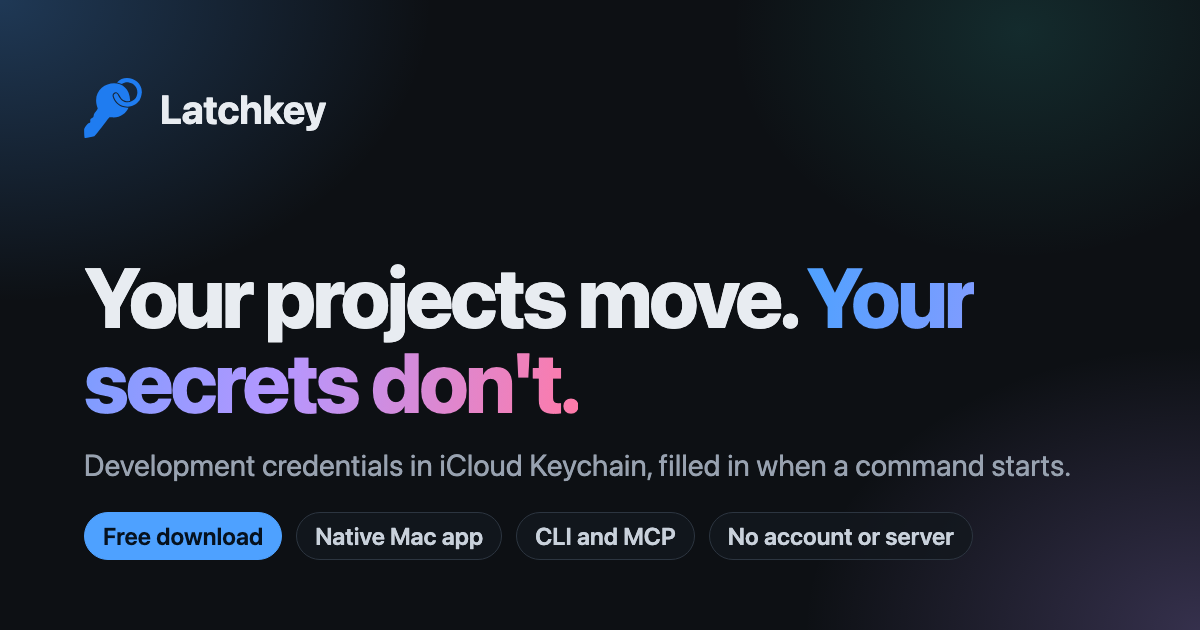
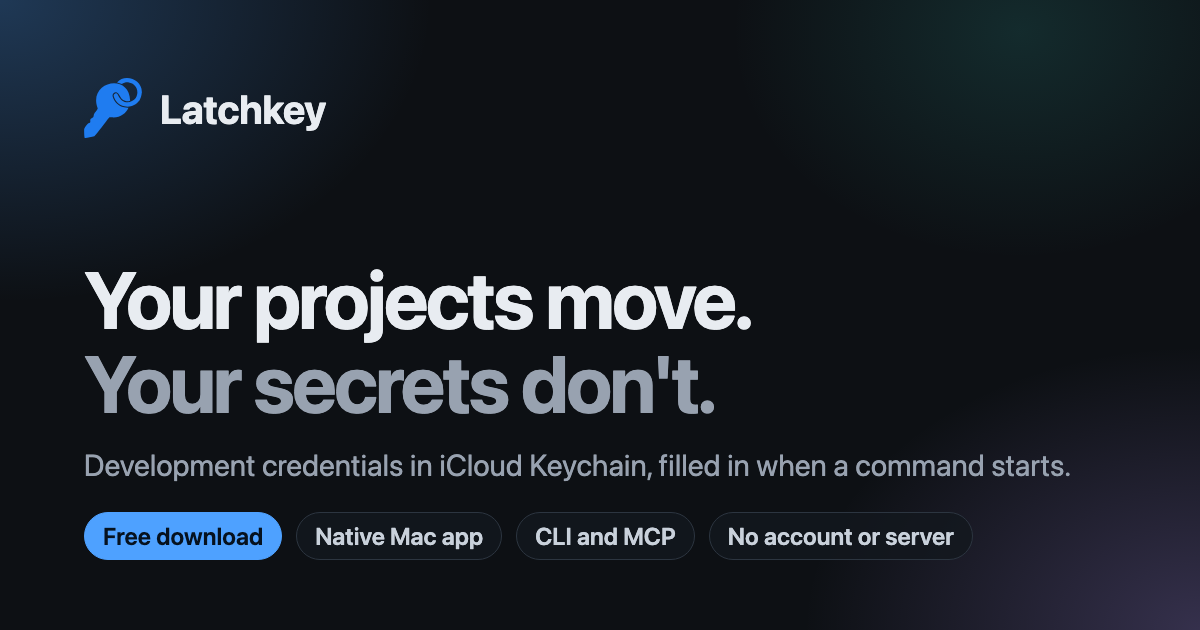
Quieten the home page header

Changed region(s): [[0.0617, 0.4222, 0.8325, 0.6635]]

diff --git a/site/index.html b/site/index.html
@@ -97,7 +97,8 @@
     .edition ul { margin: 4px 0 8px; padding-left: 1.1em; display: grid; gap: 8px; }
     .edition .button { margin-top: auto; align-self: flex-start; }
     @media (max-width: 760px) { .editions { grid-template-columns: minmax(0, 1fr); } }
-    .hero h1 { max-width: 16ch; }
+    .hero h1 { max-width: none; font-size: clamp(32px, 3.6vw, 48px); font-weight: 680; letter-spacing: -0.025em; line-height: 1.1; text-wrap: initial; }
+    .hero h1 .soft { display: block; color: var(--muted); }
     .home .eyebrow + h2 { margin-top: 0; }
     .home .col > p, .home .col li { max-width: 66ch; }
     .home .feature h3 { margin-top: 12px; }
@@ -108,15 +109,15 @@
     /* Hero: the pitch beside the scene on wide screens, so both fit the first screen; stacked below 1000px. */
     .hero { display: grid; grid-template-columns: minmax(0, 5fr) minmax(0, 6fr); gap: 32px 56px; align-items: center; padding-top: 48px; }
     .hero-art { min-width: 0; }
-    .hero h1 .grad { background: linear-gradient(100deg, var(--h-blue), var(--h-violet) 55%, var(--h-rose)); -webkit-background-clip: text; background-clip: text; color: transparent; }
     .hero .hero-scene { background: radial-gradient(45% 55% at 30% 40%, color-mix(in srgb, var(--h-blue) 20%, transparent), transparent 70%), radial-gradient(40% 50% at 75% 65%, color-mix(in srgb, var(--h-violet) 18%, transparent), transparent 70%), radial-gradient(30% 40% at 80% 15%, color-mix(in srgb, var(--h-teal) 14%, transparent), transparent 70%), var(--scene-wash); }
     @media (max-width: 1000px) {
       .hero { grid-template-columns: minmax(0, 1fr); }
-      .hero h1 { max-width: 20ch; }
+      .hero h1 { max-width: none; }
       .hero-art { max-width: 720px; }
     }
-    .facts-row { display: flex; flex-wrap: wrap; gap: 8px; list-style: none; margin: 18px 0 0; padding: 0; }
-    .facts-row li { display: inline-flex; align-items: center; gap: 6px; padding: 4px 10px; border-radius: 999px; border: 1px solid var(--line); background: var(--surface); font-size: 13.5px; color: var(--muted); }
+    .facts-row { display: flex; flex-wrap: wrap; gap: 8px 16px; list-style: none; margin: 28px 0 0; padding: 18px 0 0; border-top: 1px solid var(--line); }
+    .facts-row li { display: inline-flex; align-items: center; gap: 6px; font-size: 13.5px; color: var(--muted); }
+    .facts-row .ic { color: var(--accent); }
 
     .scene-cap { max-width: 70ch; margin-top: 12px; }
     .cta { display: flex; flex-wrap: wrap; align-items: center; gap: 12px 20px; margin: 24px 0 8px; }
@@ -278,16 +279,15 @@
     <section class="hero" aria-labelledby="title" data-hue="blue">
       <div class="hero-copy">
       <p class="eyebrow">A native Mac tool for developers</p>
-      <h1 id="title">Your projects move. <span class="grad">Your secrets don't.</span></h1>
-      <p class="lede">Latchkey keeps development credentials in your Mac's iCloud Keychain and reconnects them to the projects that need them. Restore an environment on another Mac, run commands with the right values, and let coding agents work through access you control.</p>
+      <h1 id="title">Your projects move. <span class="soft">Your secrets don't.</span></h1>
+      <p class="lede">Latchkey keeps development credentials in your Mac's iCloud Keychain and fills them in when a command starts: on every Mac you use, and for the coding agents you allow.</p>
       <div class="cta">
         <a class="button primary" href="https://github.com/zachshallbetter/latchkey/releases/latest"><i class="ic ic-download" aria-hidden="true"></i>Download free</a>
         <a class="button secondary" href="#how">See how it works</a>
-        <a href="#pro">What Pro adds</a>
       </div>
-      <p class="fine">Free and notarized by Apple. The core stays free; Pro will be a one-time purchase.</p>
+      <p class="fine">Free and notarized by Apple. Pro will be a one-time purchase; <a href="#pro">see what it adds</a>.</p>
       <ul class="facts-row" aria-label="At a glance">
-        <li><i class="ic ic-laptop" aria-hidden="true"></i>macOS 15 or later</li><li><i class="ic ic-cloud" aria-hidden="true"></i>iCloud Keychain</li><li><i class="ic ic-terminal" aria-hidden="true"></i>CLI and MCP</li><li><i class="ic ic-ban" aria-hidden="true"></i>No account or server</li>
+        <li><i class="ic ic-laptop" aria-hidden="true"></i>macOS 15 or later</li><li><i class="ic ic-terminal" aria-hidden="true"></i>CLI and MCP</li><li><i class="ic ic-ban" aria-hidden="true"></i>No account or server</li>
       </ul>
       </div>
 
@@ -318,7 +318,7 @@
       <div class="shead">
         <p class="eyebrow">How it works</p>
         <h2 id="how-title">From scattered .env files to a working project.</h2>
-        <p class="intro">Import the environment you already have. Latchkey stores the credentials and replaces their values with references. On another Mac, restore the project\'s environment and get back to work. The environment travels with the project; the credential stays in your vault.</p>
+        <p class="intro">Import the environment you already have. Latchkey stores the credentials and replaces their values with references. On another Mac, restore the project's environment and get back to work. The environment travels with the project; the credential stays in your vault.</p>
       </div>
 
       <div class="feature">

diff --git a/scripts/og-image.html b/scripts/og-image.html
@@ -5,15 +5,15 @@ body{background:#0d1014;color:#e8ecf1;font-family:-apple-system,BlinkMacSystemFo
 .wrap{position:absolute;left:84px;top:78px;right:84px;bottom:70px;display:flex;flex-direction:column}
 .brand{display:flex;align-items:center;gap:18px;font-weight:700;font-size:40px;letter-spacing:-.01em}
 .brand img{width:58px;height:60px}
-h1{margin:auto 0 22px;font-size:84px;line-height:1.02;letter-spacing:-.035em;font-weight:800;max-width:960px}
-h1 span{background:linear-gradient(100deg,#4ea1ff,#b597ff 55%,#ff7aa8);-webkit-background-clip:text;background-clip:text;color:transparent}
+h1{margin:auto 0 22px;font-size:80px;line-height:1.05;letter-spacing:-.03em;font-weight:700;max-width:960px}
+h1 span{color:#98a2b0}
 p{margin:0;font-size:30px;color:#98a2b0}
 .chips{display:flex;gap:14px;margin-top:30px}
 .chips b{font-weight:600;font-size:24px;padding:9px 18px;border-radius:999px;border:1.5px solid #2c3540;background:rgba(19,24,30,.8);color:#c9d1db}
 .chips b.free{background:#4ea1ff;color:#06121f;border-color:#4ea1ff}
 </style></head><body><div class="glow"></div><div class="wrap">
 <div class="brand"><img src="../site/logo.svg" alt="">Latchkey</div>
-<h1>Your projects move. <span>Your secrets don't.</span></h1>
+<h1>Your projects move.<br><span>Your secrets don't.</span></h1>
 <p>Development credentials in iCloud Keychain, filled in when a command starts.</p>
 <div class="chips"><b class="free">Free download</b><b>Native Mac app</b><b>CLI and MCP</b><b>No account or server</b></div>
 </div></body></html>

diff --git a/CHANGELOG.md b/CHANGELOG.md
@@ -23,6 +23,9 @@
 - Link records gain optional `tokenItem` and `team` fields; links saved before them decode unchanged.
 
 ### Website
+- A quieter home page header: the title in one colour, its second sentence muted on its own line, a shorter
+  introduction, the Pro link folded into the note under the buttons, and the facts as a plain row. The social image
+  matches.
 - A footer with the download and Product, Developers and Trust and help columns on every page, and a 404 page that
   shows what `lk get` prints for a name it doesn't have, with links onward.
 - Digital Presence Protocol pass: a social preview image and large card on every page, descriptions under 170
